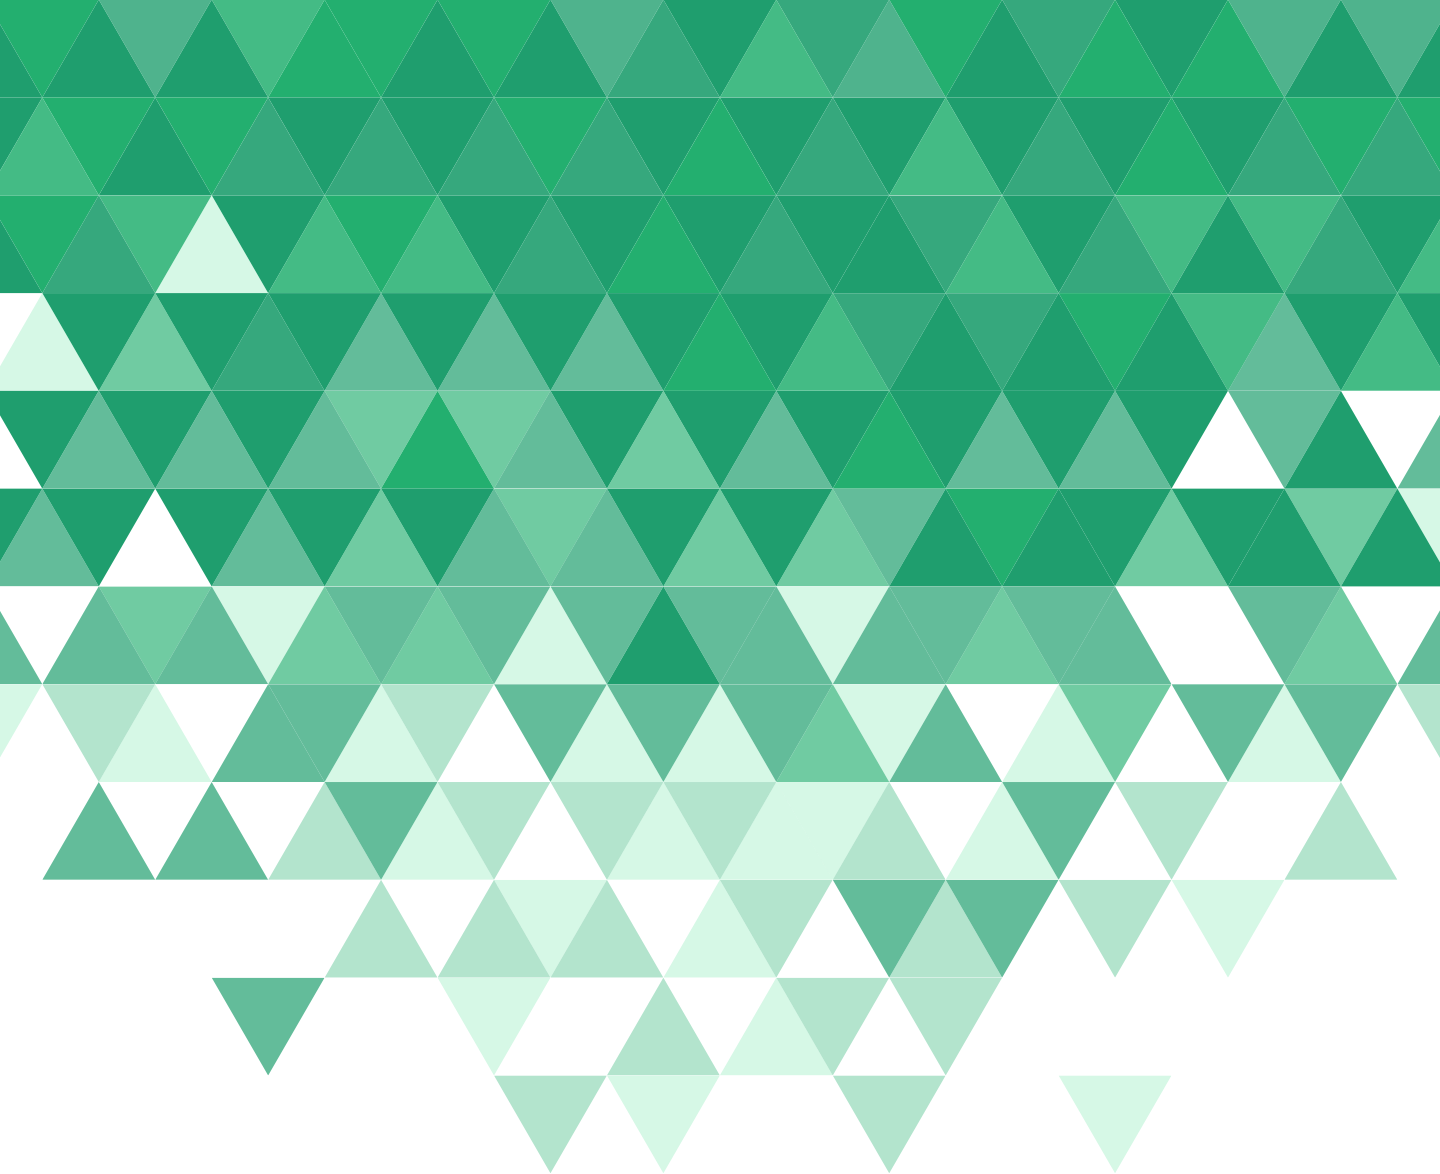
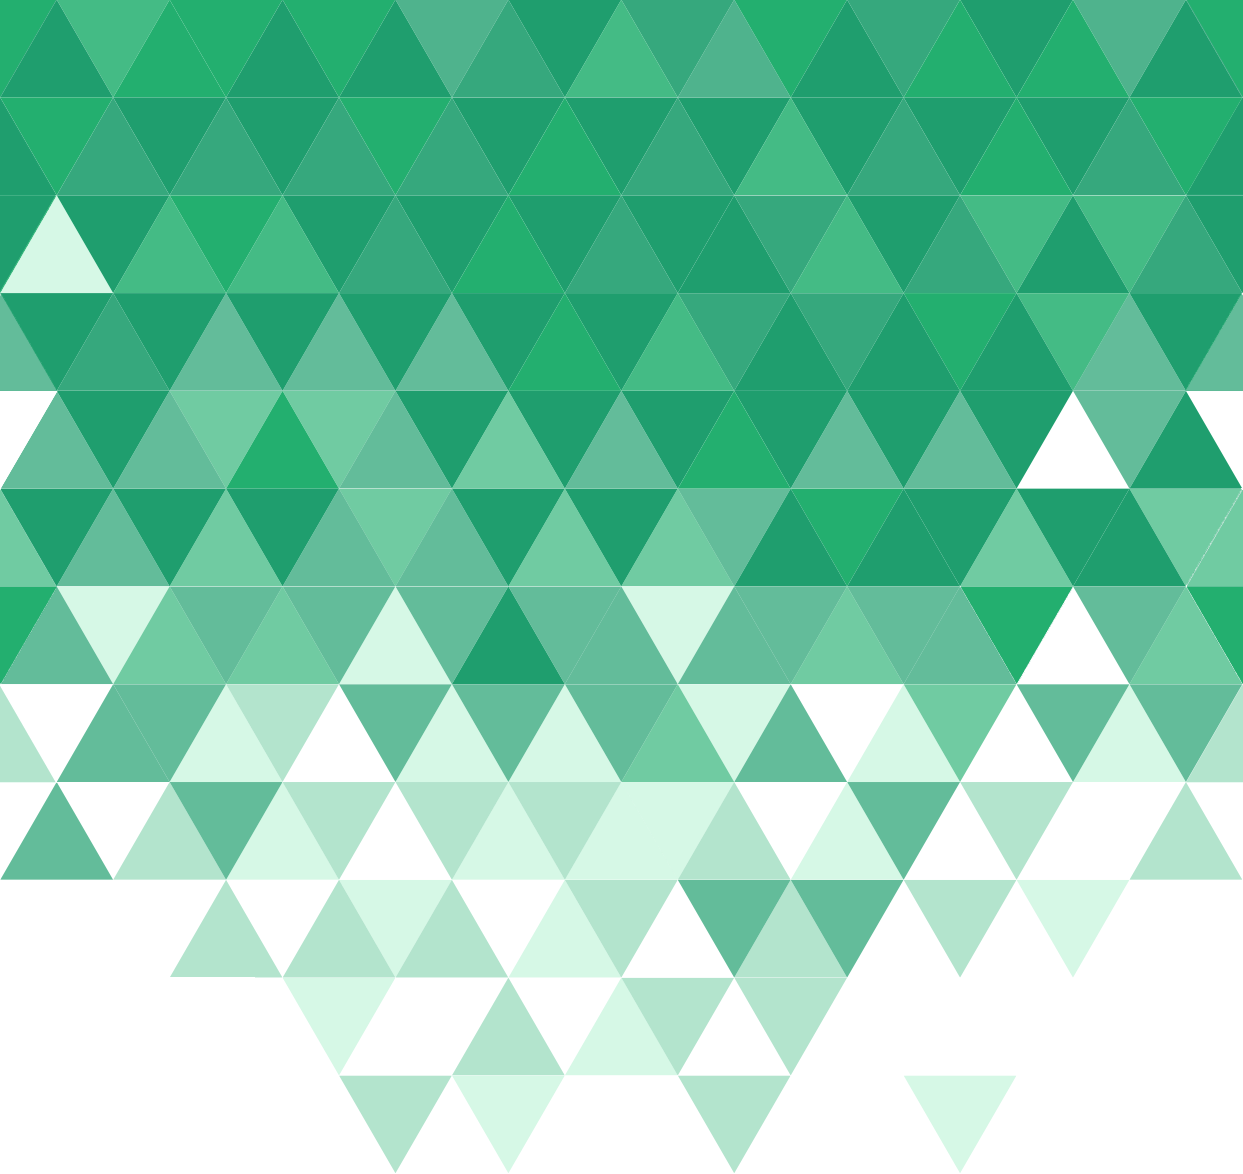
fix bg

diff --git a/app/styles/_global.sass b/app/styles/_global.sass
@@ -70,6 +70,7 @@ input
   background-image: linear-gradient(to bottom, #ccd6e8, #f1f4fb), linear-gradient(#f1f4fb, #f1f4fb)
   background-image: url(../images/png/md/bg.png)
   background-position: center top
-  background-repeat: no-repeat
-  @media (min-width: 1300px)
-    background-size: 100% auto
+  background-repeat: repeat-x
+  background-size: 630px auto
+  @media (min-width: 768px)
+    background-size: 1230px auto
